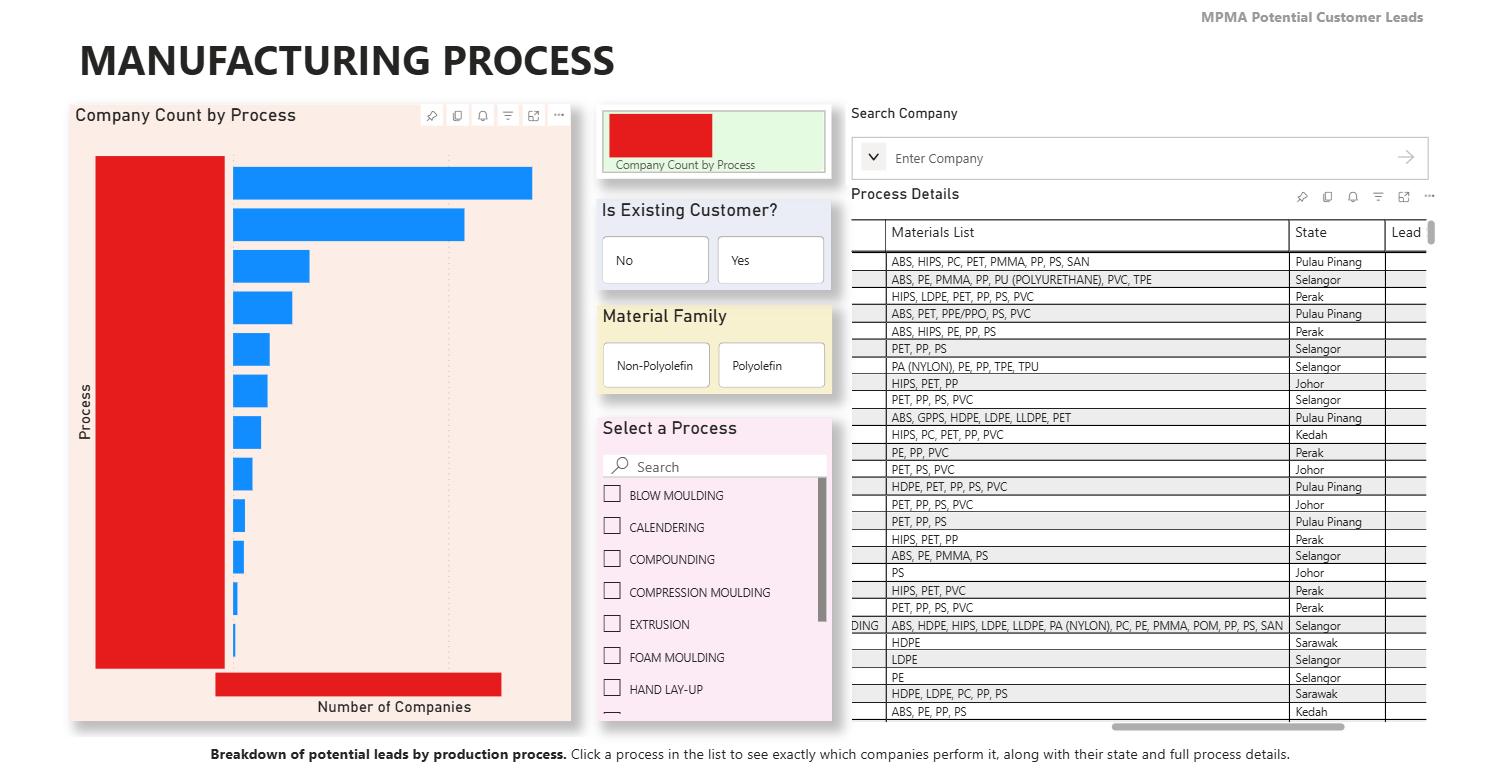
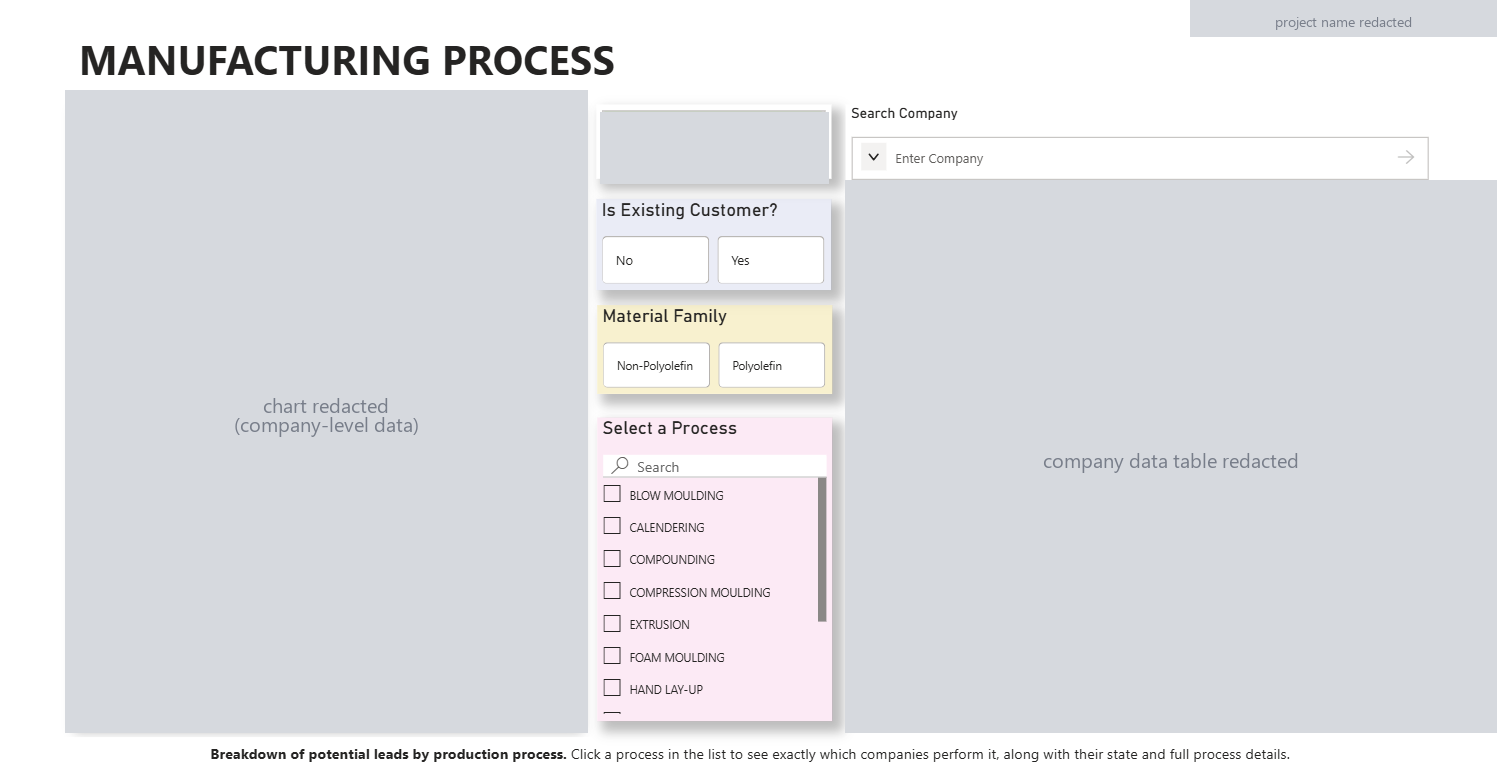
Redact company-level data in the dashboard screenshot
Replaced the chart, data table, and project codename with solid
redaction blocks per the company's confidentiality request, keeping
only the generic filter/layout UI visible. Updated the caption to
note the redaction.

diff --git a/src/app/app.ts b/src/app/app.ts
@@ -315,7 +315,7 @@ export class App implements OnInit, AfterViewInit, OnDestroy {
     {
       src: 'assets/project%20dashboard%20.png',
       alt: 'Internship project dashboard',
-      caption: 'Potential-customer leads dashboard built during the internship, showing company counts by manufacturing process.',
+      caption: 'Potential-customer leads dashboard built during the internship. Company-level data and chart details are redacted at the company\'s request; the layout and filter design are shown as built.',
     },
     {
       src: 'assets/working.jpg',
